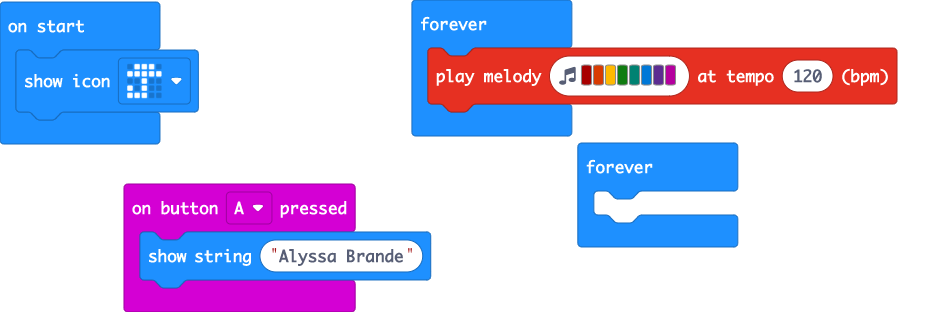
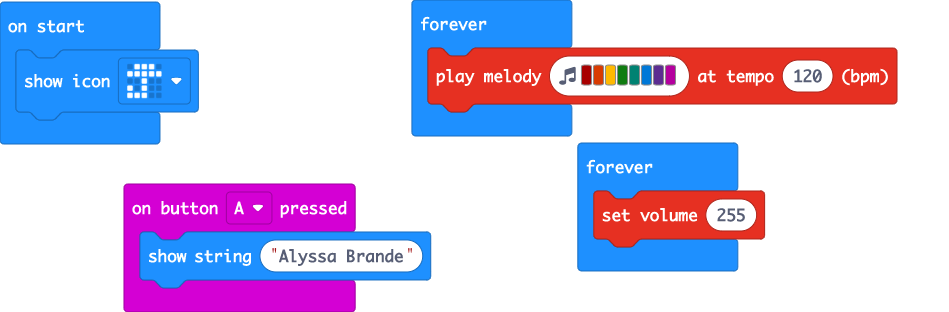
added something to forever again

Changed region(s): [[0.5806, 0.6058, 0.8251, 0.8942]]

diff --git a/main.ts b/main.ts
@@ -6,5 +6,5 @@ basic.forever(function () {
     music.playMelody("C5 B A G F E D C ", 120)
 })
 basic.forever(function () {
-	
+    music.setVolume(255)
 })
